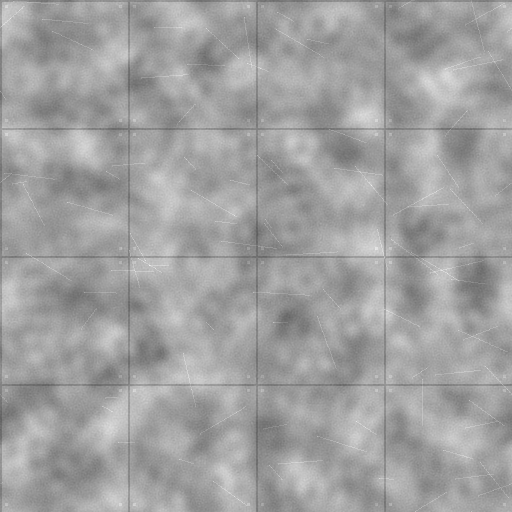
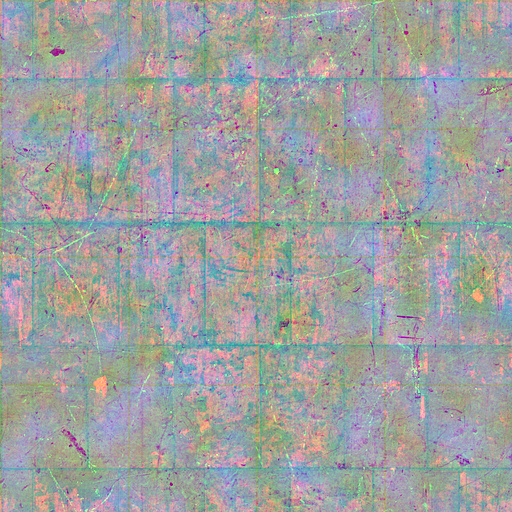
Scanned CC0 surface detail (plated walls, worn concrete floors); city sky pushed to the horizon
Claude-Session: https://claude.ai/code/session_01Ft9M4xqHWmyBCAFYDmaNKz

diff --git a/js/gfx/assets.js b/js/gfx/assets.js
@@ -197,7 +197,8 @@ export function createAssets() {
   // sRGB vertex colours -> linear, in the shader.
   // a rim of light round characters, so they read against dark streets; one colour for the whole scene
   const rim = { color: { value: null }, power: { value: 2.6 } };
-  // a tileable detail texture (assets/tex/detail.png) projected in world space onto walls and floors
+  // a tileable detail texture (assets/tex/detail.png) projected in world space: its red channel (plated metal)
+  // on walls, its green (worn concrete) on floors; made from Poly Haven scans by tools/detail-from-photos.py
   const detail = { map: { value: null }, scale: { value: 0.25 }, amount: { value: 0.32 } };
   function detailTexture() {
     if (detail.map.value) return;
@@ -221,7 +222,7 @@ export function createAssets() {
           '#include <color_fragment>',
           '  vec3 dW = pow( abs( normalize( vDetailN ) ), vec3( 4.0 ) ); dW /= ( dW.x + dW.y + dW.z );',
           '  vec3 dP = vDetailPos * detailScale;',
-          '  float dTex = texture2D( detailMap, dP.zy ).r * dW.x + texture2D( detailMap, dP.xz ).r * dW.y + texture2D( detailMap, dP.xy ).r * dW.z;',
+          '  float dTex = texture2D( detailMap, dP.zy ).r * dW.x + texture2D( detailMap, dP.xz ).g * dW.y + texture2D( detailMap, dP.xy ).r * dW.z;',
           '  diffuseColor.rgb *= mix( 1.0, dTex * 1.6, detailAmount );',
         ].join('\n'));
       }

diff --git a/tools/detail-from-photos.py b/tools/detail-from-photos.py
@@ -1,0 +1,37 @@
+# Makes assets/tex/detail.png from scanned CC0 textures (Poly Haven, polyhaven.com, CC0):
+#   red   = walls: metal_plate_02 (riveted plates, scratches), its colour photo times its AO map
+#   green = floors: concrete_floor_worn_001, likewise
+#   blue  = the procedural worn-plate texture from tools/detail-texture.py, kept as a spare
+# Each channel is turned to greyscale, flattened (large-scale shading removed so the tile does not show),
+# and normalised to a mean of 0.62 with a set contrast; the world shader multiplies by 1.6 x the value.
+# Download the 1k JPG "Diffuse" and "AO" maps of both textures into one folder first, then:
+#   python3 -I tools/detail-from-photos.py <folder> [out.png] [size]
+import sys
+import numpy as np
+from PIL import Image, ImageFilter
+
+src = sys.argv[1]
+out = sys.argv[2] if len(sys.argv) > 2 else 'assets/tex/detail.png'
+N = int(sys.argv[3]) if len(sys.argv) > 3 else 512
+
+def channel(name, contrast):
+    diff = Image.open(f'{src}/{name}_Diffuse.jpg').convert('L').resize((N, N), Image.LANCZOS)
+    ao = Image.open(f'{src}/{name}_AO.jpg').convert('L').resize((N, N), Image.LANCZOS)
+    g = np.asarray(diff, dtype=np.float64) / 255 * (0.35 + 0.65 * np.asarray(ao, dtype=np.float64) / 255)
+    # remove shading broader than an eighth of the tile; wrap so the result still tiles
+    pad = np.pad(g, N // 4, mode='wrap')
+    low = np.asarray(Image.fromarray((pad * 255).astype(np.uint8)).filter(ImageFilter.GaussianBlur(N / 16)), dtype=np.float64) / 255
+    low = low[N // 4:N // 4 + N, N // 4:N // 4 + N]
+    hp = g - low
+    hp = hp / max(1e-6, hp.std()) * contrast
+    return np.clip(0.62 + hp, 0, 1)
+
+walls = channel('metal_plate_02', 0.11)
+floors = channel('concrete_floor_worn_001', 0.08)
+try:
+    spare = np.asarray(Image.open(out).convert('L').resize((N, N)), dtype=np.float64) / 255
+except Exception:
+    spare = np.full((N, N), 0.62)
+rgb = np.stack([walls, floors, spare], axis=-1)
+Image.fromarray((rgb * 255).astype(np.uint8), 'RGB').save(out, optimize=True)
+print('wrote', out, f'{N}x{N}', 'means', [round(float(c.mean()), 3) for c in (walls, floors, spare)])

diff --git a/CLAUDE.md b/CLAUDE.md
@@ -22,7 +22,7 @@ All art is baked to vertex colours, with no textures, into quantised JSON packs 
 - `tools/bake-guns.mjs <objDir>`: guns become `assets/qg.json`.
 - Blender runs here as a Python module (`pip install bpy` into a Python 3.11 venv). After any fresh bake, run `tools/blender/bake-ao.py assets/<pack>.json [strength] [samples]` on each world pack (0.8) and each `people-*` pack (0.6): it bakes ambient occlusion into the vertex colours and marks the pack so it is not done twice. Glowing cyber models (signs, screens, pickups) are skipped.
 - `tools/creature-clips.mjs` writes Walk, Attack and Death clips into `assets/people-alien.json`; run it after rebaking the characters.
-- `tools/blender/skyline.py <city|hollow> <out.jpg> [width] [samples]` renders the panoramas in `assets/sky/`. `tools/detail-texture.py` makes `assets/tex/detail.png`, the tileable detail the world shader projects onto every surface.
+- `tools/blender/skyline.py <city|hollow> <out.jpg> [width] [samples]` renders the panoramas in `assets/sky/`. `tools/detail-from-photos.py <folder>` makes `assets/tex/detail.png` from two Poly Haven scans (red: plated metal for walls, green: worn concrete for floors; blue: the procedural one from `tools/detail-texture.py`). The world shader projects it onto every surface.
 
 ## Who owns what
 

diff --git a/README.md b/README.md
@@ -37,4 +37,4 @@ Any standard controller works: left stick moves, right stick looks, RT fires, LT
 
 ## Credits
 
-World models by Kenney and characters and guns by Quaternius, both released under CC0.
+World models by Kenney and characters and guns by Quaternius, both released under CC0. Surface detail from Poly Haven's scanned textures (metal_plate_02, concrete_floor_worn_001), also CC0.
